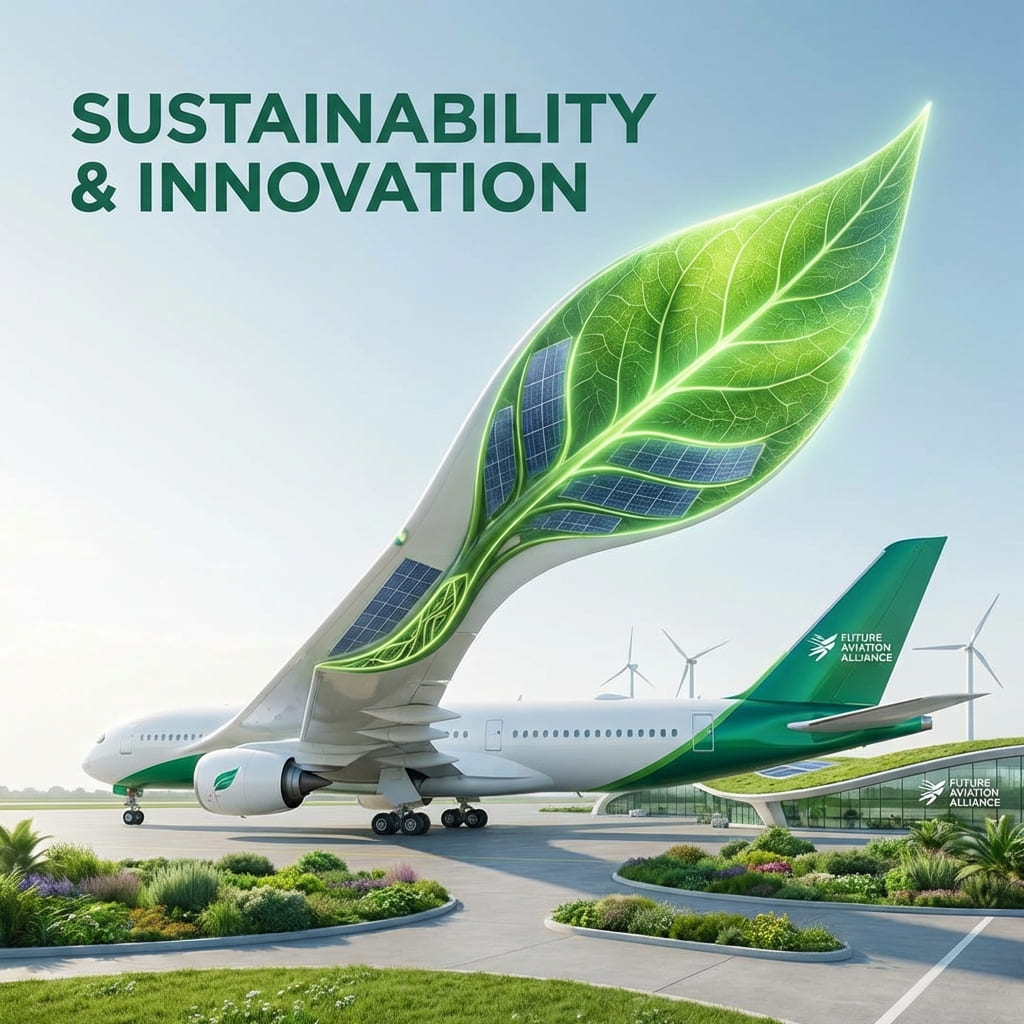
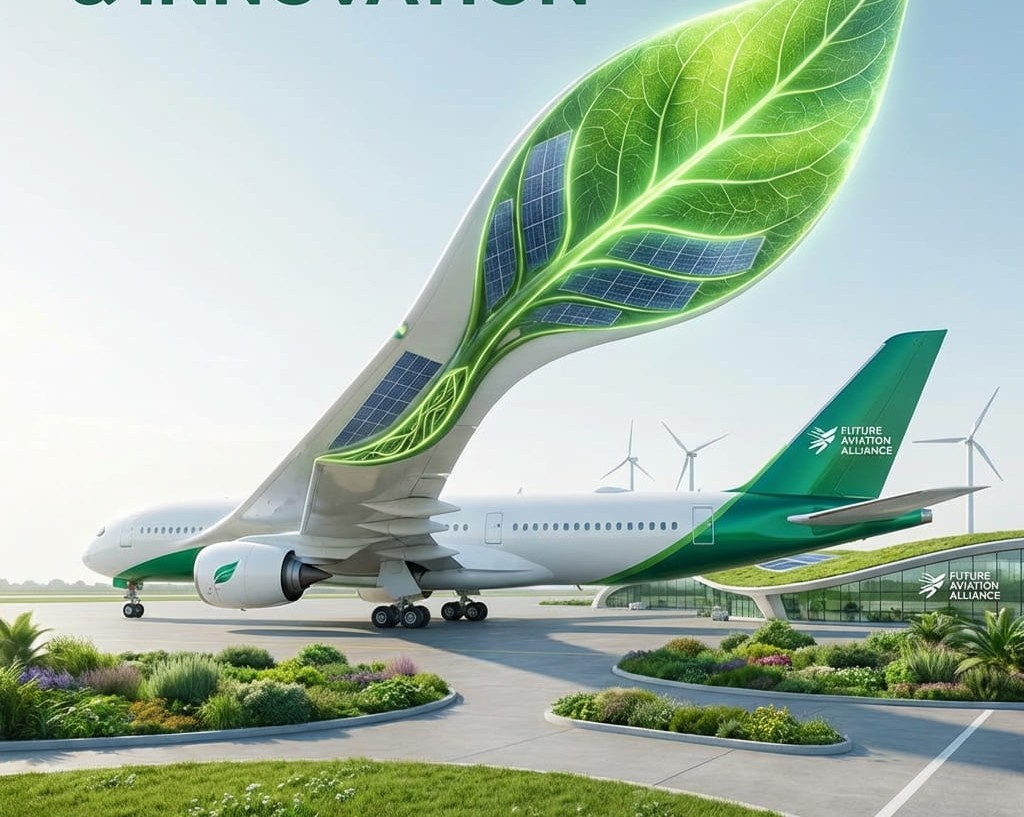
img_update

diff --git a/src/styles/PageLoader.css b/src/styles/PageLoader.css
@@ -1,0 +1,95 @@
+.page-loader {
+    position: fixed;
+    top: 0;
+    left: 0;
+    width: 100%;
+    height: 100%;
+    background: linear-gradient(135deg, rgba(255, 255, 255, 0.98) 0%, rgba(245, 250, 245, 0.98) 100%);
+    display: flex;
+    justify-content: center;
+    align-items: center;
+    z-index: 9999;
+    animation: fadeIn 0.3s ease-in;
+}
+
+.page-loader.fade-out {
+    animation: fadeOut 0.4s ease-out forwards;
+}
+
+.loader-content {
+    display: flex;
+    flex-direction: column;
+    align-items: center;
+    gap: 2rem;
+}
+
+.loader-logo {
+    width: 180px;
+    height: auto;
+    animation: logoFloat 2s ease-in-out infinite;
+    filter: drop-shadow(0 4px 12px rgba(0, 100, 0, 0.15));
+}
+
+.loader-spinner {
+    width: 50px;
+    height: 50px;
+    border: 4px solid rgba(0, 100, 0, 0.1);
+    border-top: 4px solid #006400;
+    border-radius: 50%;
+    animation: spin 1s linear infinite;
+}
+
+@keyframes fadeIn {
+    from {
+        opacity: 0;
+    }
+
+    to {
+        opacity: 1;
+    }
+}
+
+@keyframes fadeOut {
+    from {
+        opacity: 1;
+    }
+
+    to {
+        opacity: 0;
+    }
+}
+
+@keyframes logoFloat {
+
+    0%,
+    100% {
+        transform: translateY(0px);
+    }
+
+    50% {
+        transform: translateY(-10px);
+    }
+}
+
+@keyframes spin {
+    0% {
+        transform: rotate(0deg);
+    }
+
+    100% {
+        transform: rotate(360deg);
+    }
+}
+
+/* Responsive adjustments */
+@media (max-width: 768px) {
+    .loader-logo {
+        width: 140px;
+    }
+
+    .loader-spinner {
+        width: 40px;
+        height: 40px;
+        border-width: 3px;
+    }
+}

diff --git a/src/components/PageHeader.jsx b/src/components/PageHeader.jsx
@@ -1,16 +1,39 @@
-import React from 'react';
+import React, { useState, useEffect } from 'react';
 import '../styles/PageHeader.css';
 import defaultBg from '../assets/images/cta-bg.jpg';
 
 const PageHeader = ({ title, subtitle, bgImage }) => {
+    const [imageLoaded, setImageLoaded] = useState(false);
+    const imageSrc = bgImage || defaultBg;
+
+    useEffect(() => {
+        // Reset loading state when image changes
+        setImageLoaded(false);
+
+        // Preload the image
+        const img = new Image();
+        img.src = imageSrc;
+
+        if (img.complete) {
+            // Image is already cached
+            setImageLoaded(true);
+        } else {
+            img.onload = () => setImageLoaded(true);
+        }
+    }, [imageSrc]);
+
     return (
         <div className="page-header">
-            <img
-                src={bgImage || defaultBg}
-                alt={title}
-                className="page-header-bg"
-                fetchPriority="high"
-            />
+            <div className={`page-header-bg-wrapper ${imageLoaded ? 'loaded' : 'loading'}`}>
+                <img
+                    src={imageSrc}
+                    alt={title}
+                    className="page-header-bg"
+                    fetchPriority="high"
+                    loading="eager"
+                    onLoad={() => setImageLoaded(true)}
+                />
+            </div>
             <div className="page-header-overlay"></div>
             <div className="page-header-content">
                 <h1>{title}</h1>

diff --git a/src/utils/imageOptimizer.js b/src/utils/imageOptimizer.js
@@ -1,0 +1,50 @@
+/**
+ * Image optimization utilities for better loading performance
+ */
+
+/**
+ * Preload critical images to improve perceived performance
+ * @param {string} imageUrl - URL of the image to preload
+ */
+export const preloadImage = (imageUrl) => {
+    if (typeof window === 'undefined') return;
+
+    const link = document.createElement('link');
+    link.rel = 'preload';
+    link.as = 'image';
+    link.href = imageUrl;
+    document.head.appendChild(link);
+};
+
+/**
+ * Preload multiple images
+ * @param {string[]} imageUrls - Array of image URLs to preload
+ */
+export const preloadImages = (imageUrls) => {
+    imageUrls.forEach(url => preloadImage(url));
+};
+
+/**
+ * Load image with promise for better control
+ * @param {string} src - Image source URL
+ * @returns {Promise<HTMLImageElement>}
+ */
+export const loadImage = (src) => {
+    return new Promise((resolve, reject) => {
+        const img = new Image();
+        img.onload = () => resolve(img);
+        img.onerror = reject;
+        img.src = src;
+    });
+};
+
+/**
+ * Check if image is cached in browser
+ * @param {string} src - Image source URL
+ * @returns {boolean}
+ */
+export const isImageCached = (src) => {
+    const img = new Image();
+    img.src = src;
+    return img.complete;
+};

diff --git a/src/styles/PageHeader.css b/src/styles/PageHeader.css
@@ -12,6 +12,36 @@
     background: var(--color-primary);
 }
 
+.page-header-bg-wrapper {
+    position: absolute;
+    top: 0;
+    left: 0;
+    width: 100%;
+    height: 100%;
+    z-index: 0;
+}
+
+.page-header-bg-wrapper.loading {
+    background: linear-gradient(135deg, #006400 0%, #004d00 50%, #003300 100%);
+    animation: shimmer 2s infinite;
+}
+
+.page-header-bg-wrapper.loaded .page-header-bg {
+    opacity: 1;
+}
+
+@keyframes shimmer {
+
+    0%,
+    100% {
+        opacity: 0.8;
+    }
+
+    50% {
+        opacity: 1;
+    }
+}
+
 .page-header-bg {
     position: absolute;
     top: 0;
@@ -19,6 +49,8 @@
     width: 100%;
     height: 100%;
     object-fit: cover;
+    opacity: 0;
+    transition: opacity 0.6s ease-in-out;
     z-index: 0;
 }
 

diff --git a/src/pages/WhyChooseUs.jsx b/src/pages/WhyChooseUs.jsx
@@ -3,7 +3,7 @@ import PageHeader from '../components/PageHeader';
 import { Shield, Globe, Users, Award } from 'lucide-react';
 import '../styles/WhyChooseUs.css';
 import Contact from '../sections/Contact';
-import headBg from '../assets/images/why-choose-us-header.jpg';
+import headBg from '../assets/images/aviation-1.jpg';
 import specializedAviation from '../assets/images/specialized-aviation.jpg';
 import globalExpertise from '../assets/images/global-expertise.jpg';
 import aviationSupport from '../assets/images/aviation-support.jpg';

diff --git a/src/components/PageLoader.jsx b/src/components/PageLoader.jsx
@@ -1,0 +1,16 @@
+import React from 'react';
+import '../styles/PageLoader.css';
+import logo from '../assets/logo.png';
+
+const PageLoader = () => {
+    return (
+        <div className="page-loader">
+            <div className="loader-content">
+                <img src={logo} alt="Trident Aviation" className="loader-logo" />
+                <div className="loader-spinner"></div>
+            </div>
+        </div>
+    );
+};
+
+export default PageLoader;

diff --git a/src/pages/Contact.jsx b/src/pages/Contact.jsx
@@ -1,7 +1,7 @@
 import React from 'react';
 import PageHeader from '../components/PageHeader';
 import ContactSection from '../sections/Contact';
-import contactBg from '../assets/images/contacth.jpg';
+import contactBg from '../assets/images/ss.png';
 
 const Contact = () => {
     return (

diff --git a/src/styles/WhyChooseUs.css b/src/styles/WhyChooseUs.css
@@ -188,6 +188,7 @@
     width: 100%;
     height: 100%;
     object-fit: cover;
+    object-position: center;
     transition: transform 0.6s ease;
 }
 
